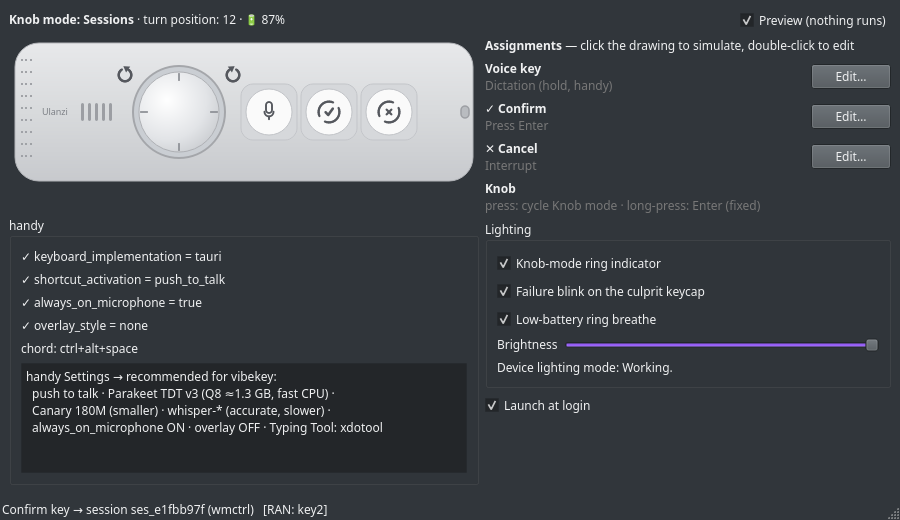
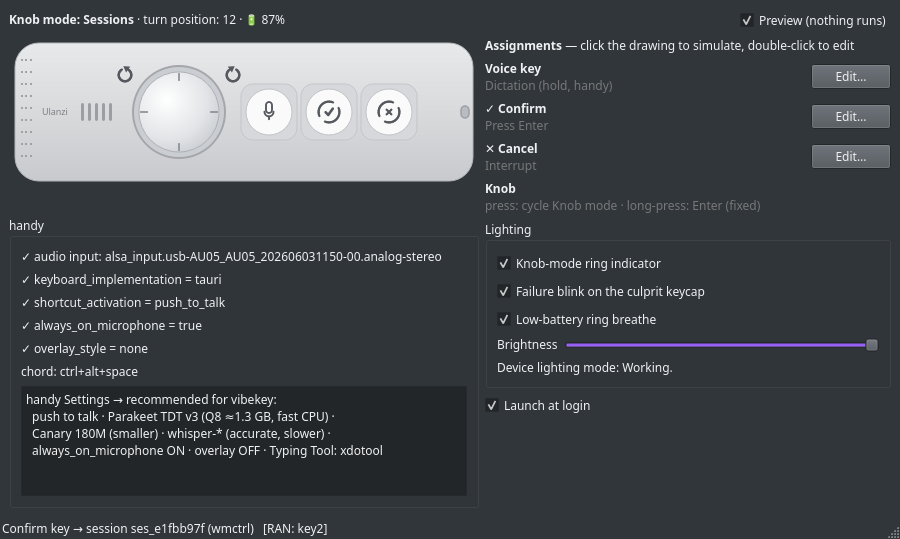
Tray mic badge: orange mic-with-slash when the PC has no audio input
Owner ask: show in the tray when the microphone isn't connected. The Panel
(never the Daemon — spec §3 keeps audio out of it) probes 'pactl list short
sources' on a 5 s timer, cached across the state poll; only a real zero of
non-.monitor input sources warns (no pactl / dead server stays silent).
Top-left orange disc (mode disc and '!' own the bottom corners) with a
struck-through mic glyph; tooltip gains 'microphone not connected'; the
handy card grows a mirroring ✓/✗/· audio-input line. Note: the AU05 has a
built-in mic, so 'missing' really means nothing-to-record. Tests: parser on
real pactl output + unit cases, verdict matrix (ok/missing/unknown x2),
cache TTL, pixel checks of badge/glyph/corner-isolation at 32 and 22 px.
Docs: getting-started tray bullet, presets dictation note, troubleshooting
chain step 0; assets re-rendered (tray grid now six cells incl. the badge).

diff --git a/panel/panel.py b/panel/panel.py
@@ -92,6 +92,47 @@ def run_vibekey_config(*args):
 
 
 # ---------------------------------------------------------------------------
+# audio input probe — Panel-side only, the Daemon never touches audio (spec §3)
+# ---------------------------------------------------------------------------
+
+def parse_input_sources(text):
+    """Names of real input sources from `pactl list short sources`: tab-separated
+    index/name/module/format/state; sink monitors (name ends `.monitor`) exist for
+    every output and are not microphones."""
+    names = []
+    for line in text.splitlines():
+        cols = line.split("\t")
+        if len(cols) < 2:
+            continue
+        name = cols[1].strip()
+        if name and not name.endswith(".monitor"):
+            names.append(name)
+    return names
+
+
+_MIC_CACHE = [0.0, "unknown", ""]   # (checked_at, state, detail)
+
+
+def mic_status(ttl=5.0):
+    """('ok'|'missing'|'unknown', detail) — is any microphone connected? Cached so
+    the Panel poll and the tray timer share one pactl call. 'unknown' (no pactl,
+    dead server) never warns — only a real zero of input sources draws the badge."""
+    now = time.monotonic()
+    if now - _MIC_CACHE[0] >= ttl:
+        state, detail = "unknown", ""
+        try:
+            proc = subprocess.run(["pactl", "list", "short", "sources"],
+                                  capture_output=True, text=True, timeout=2.0, check=False)
+            if proc.returncode == 0:
+                names = parse_input_sources(proc.stdout)
+                state, detail = ("ok", names[0]) if names else ("missing", "")
+        except (OSError, subprocess.TimeoutExpired):
+            pass
+        _MIC_CACHE[0], _MIC_CACHE[1], _MIC_CACHE[2] = now, state, detail
+    return _MIC_CACHE[1], _MIC_CACHE[2]
+
+
+# ---------------------------------------------------------------------------
 # Prototype art, ported verbatim from prototype_panel_picker.py (ticket 5)
 # ---------------------------------------------------------------------------
 
@@ -271,7 +312,18 @@ def _glyph_letter(letter):
 MODE_GLYPHS = {"scroll": _glyph_scroll, "sessions": _glyph_sessions, "volume": _glyph_volume}
 
 
-def app_icon_pixmap(size=32, warn=False, mode_id=None, mode_label=None):
+def _glyph_mic_off(p, r):
+    """mini mic struck through — microphone not connected (tray warning badge)."""
+    p.save()
+    p.translate(r.topLeft())
+    s = r.width()
+    draw_mic(p, s, "#2c2e33")
+    p.setPen(_pen("#2c2e33", max(1.0, s * 0.09)))
+    p.drawLine(QPointF(s * 0.28, s * 0.74), QPointF(s * 0.74, s * 0.26))
+    p.restore()
+
+
+def app_icon_pixmap(size=32, warn=False, mode_id=None, mode_label=None, mic_off=False):
     pm = QPixmap(size, size)
     pm.fill(Qt.transparent)
     draw_app_icon(pm)
@@ -283,6 +335,15 @@ def app_icon_pixmap(size=32, warn=False, mode_id=None, mode_label=None):
     if glyph is not None:
         _disc_badge(p, size, glyph)
     p.end()
+    if mic_off:  # top-left; the mode disc and the "!" own the bottom corners
+        p = QPainter(pm)
+        p.setRenderHint(QPainter.Antialiasing)
+        d = size * 0.42
+        p.setPen(QPen(QColor("#ffffff"), max(1, size // 16)))
+        p.setBrush(QColor("#e8912d"))
+        p.drawEllipse(QRectF(1, 1, d, d))
+        _glyph_mic_off(p, QRectF(1 + d * 0.18, 1 + d * 0.18, d * 0.64, d * 0.64))
+        p.end()
     if warn:  # tray state conveys Daemon failure states (spec §8)
         p = QPainter(pm)
         p.setRenderHint(QPainter.Antialiasing)
@@ -692,6 +753,8 @@ class PanelWindow(QMainWindow):
     def build_handy_card(self):
         box = QGroupBox("handy")
         lay = QVBoxLayout(box)
+        self.handy_mic = QLabel()   # audio input line mirrors the tray mic badge
+        lay.addWidget(self.handy_mic)
         self.handy_rows = {}
         for key, text in (("keyboard_implementation", "keyboard_implementation = tauri"),
                           ("shortcut_activation", "shortcut_activation = push_to_talk"),
@@ -739,6 +802,14 @@ class PanelWindow(QMainWindow):
         return {}
 
     def refresh_handy_card(self):
+        mic_state, mic_detail = mic_status()
+        if mic_state == "ok":
+            self.handy_mic.setText("✓ audio input: %s" % mic_detail)
+        elif mic_state == "missing":
+            self.handy_mic.setText("<span style='color:#c0392b'>✗ microphone not connected"
+                                   " — Dictation will not work</span>")
+        else:
+            self.handy_mic.setText("· audio input: unknown (pactl unavailable)")
         store = self.handy_store()
         recommended = {"keyboard_implementation": "tauri", "shortcut_activation": "push_to_talk",
                        "always_on_microphone": True, "overlay_style": None}
@@ -911,6 +982,7 @@ class PanelWindow(QMainWindow):
 class TrayApp:
     def __init__(self, app):
         self.app = app
+        self.mic = "unknown"
         app.setApplicationName("vibekey-panel")
         icon = self.build_icon(False)
         app.setWindowIcon(icon)
@@ -929,11 +1001,26 @@ class TrayApp:
         self.tray = tray
         self.update_icon(self.window.state)   # tray starts already showing the current Knob mode
         tray.show()
+        # audio watcher: the tray is the always-visible surface, so it carries the
+        # "no microphone" warning (owner ask 2026-11-15); pactl answers in ms
+        self.mic_timer = QTimer()
+        self.mic_timer.timeout.connect(self.poll_mic)
+        self.mic_timer.start(5000)
+        self.poll_mic()
 
-    def build_icon(self, problem, mode_id=None, mode_label=None):
+    def poll_mic(self):
+        state, _detail = mic_status()
+        if state != self.mic:
+            self.mic = state
+            self.update_icon(self.window.state)
+        if self.window.isVisible():
+            self.window.refresh_handy_card()   # keep the card's mic line honest
+
+    def build_icon(self, problem, mode_id=None, mode_label=None, mic_off=False):
         icon = QIcon()
         for size in (22, 32):
-            icon.addPixmap(app_icon_pixmap(size, warn=problem, mode_id=mode_id, mode_label=mode_label))
+            icon.addPixmap(app_icon_pixmap(size, warn=problem, mode_id=mode_id,
+                                           mode_label=mode_label, mic_off=mic_off))
         return icon
 
     def update_icon(self, state):
@@ -946,9 +1033,12 @@ class TrayApp:
         tip = "vibekey — AU05 control surface"
         if label:
             tip += " · Knob mode: %s" % label
+        mic_off = self.mic == "missing"
+        if mic_off:
+            tip += " · microphone not connected"
         if problem:
             tip += " · see the Panel (attention badge)"
-        tray.setIcon(self.build_icon(problem, mode.get("id"), label))
+        tray.setIcon(self.build_icon(problem, mode.get("id"), label, mic_off))
         tray.setToolTip(tip)
 
     def toggle_window(self):

diff --git a/tools/render_docs_assets.py b/tools/render_docs_assets.py
@@ -82,6 +82,9 @@ def demo_state(tmp):
     os.makedirs(os.path.dirname(vkpanel.HANDY_STORES[0]), exist_ok=True)
     with open(vkpanel.HANDY_STORES[0], "w") as h:
         json.dump(handy, h)
+    # the screenshot shows a healthy box: a real input device present (the
+    # sandbox has no PipeWire socket, so stub the probe deterministically)
+    vkpanel.mic_status = lambda ttl=5.0: ("ok", "alsa_input.usb-AU05_AU05_202606031150-00.analog-stereo")
 
 
 def render_panel(app):
@@ -102,16 +105,17 @@ def render_panel(app):
 
 
 def render_tray_grid(app):
-    labels = ["Scroll", "Sessions", "Volume", "custom mode", "attention"]
+    labels = ["Scroll", "Sessions", "Volume", "custom mode", "attention", "no microphone"]
     modes = [("scroll", "Scroll"), ("sessions", "Sessions"), ("volume", "Volume"),
-             (None, "Монитор"), ("sessions", "Sessions")]
-    warns = [False, False, False, False, True]
+             (None, "Монитор"), ("sessions", "Sessions"), ("sessions", "Sessions")]
+    warns = [False, False, False, False, True, False]
+    mics = [False, False, False, False, False, True]
     cell = 44
     img = QImage(len(labels) * cell, cell + 2, QImage.Format_RGB32)
     img.fill(QColor("#232629"))
     p = QPainter(img)
-    for i, ((mid, mlabel), warn) in enumerate(zip(modes, warns)):
-        pm = vkpanel.app_icon_pixmap(32, warn=warn, mode_id=mid, mode_label=mlabel)
+    for i, ((mid, mlabel), warn, mic) in enumerate(zip(modes, warns, mics)):
+        pm = vkpanel.app_icon_pixmap(32, warn=warn, mode_id=mid, mode_label=mlabel, mic_off=mic)
         p.drawImage(QRectF(i * cell + 6, 4, 32, 32),
                     pm.toImage().scaled(32, 32, Qt.KeepAspectRatio, Qt.SmoothTransformation))
     p.end()

diff --git a/docs/presets.md b/docs/presets.md
@@ -38,7 +38,10 @@ the Daemon brackets your hold with handy's hotkey —
   default); if it drifts from handy's own binding the Panel's handy card warns
   and offers a consented **Fix handy**,
 - expected feel: **~0.5–2 s** from release to text (fast local models;
-  accurate tiers take seconds).
+  accurate tiers take seconds),
+- the Panel's tray badge watches the audio input independently: no microphone
+  connected at all → orange mic-with-slash on the tray (the AU05's own built-in
+  mic counts, so the badge means *nothing to record*, not *your headset only*).
 
 Recommended handy settings, all graded by the handy card: push to talk,
 always-on microphone, overlay off, typing tool `xdotool`, a fast model tier on

diff --git a/docs/getting-started.md b/docs/getting-started.md
@@ -72,8 +72,9 @@ Open **vibekey Panel** (applications menu, or `vibekey-panel`).
   (if your device mode says so) the consented **Manage lights** action
   ([docs/lighting.md](lighting.md#device-lighting-mode)).
 - The tray icon mirrors the Knob mode with a corner glyph
-  ![tray modes](images/tray-modes.png) and grows an orange **!** when the
-  Daemon needs attention.
+  ![tray modes](images/tray-modes.png), grows an orange **!** when the Daemon
+  needs attention, and shows an orange **mic-with-slash** badge the moment the
+  PC has no audio input — Dictation would silently have nothing to record.
 
 ## 6 · Wire the optional half
 

diff --git a/docs/troubleshooting.md b/docs/troubleshooting.md
@@ -43,6 +43,9 @@ session's values (`tr '\0' '\n' < /proc/$(pgrep -u $UID -x plasmashell)/environ 
 
 Work the chain:
 
+0. **Tray mic badge?** An orange mic-with-slash on the tray icon (or the ✗ line
+   atop the Panel's handy card) means the PC has **no audio input at all** —
+   plug a mic in first; everything downstream is moot.
 1. **Is handy running?** vibekey never starts it — `pgrep -x handy`, and check
    the tray (Plasma hides icons by default — the `^` overflow).
 2. **Right backend?** handy must keep `keyboard_implementation = tauri`.
